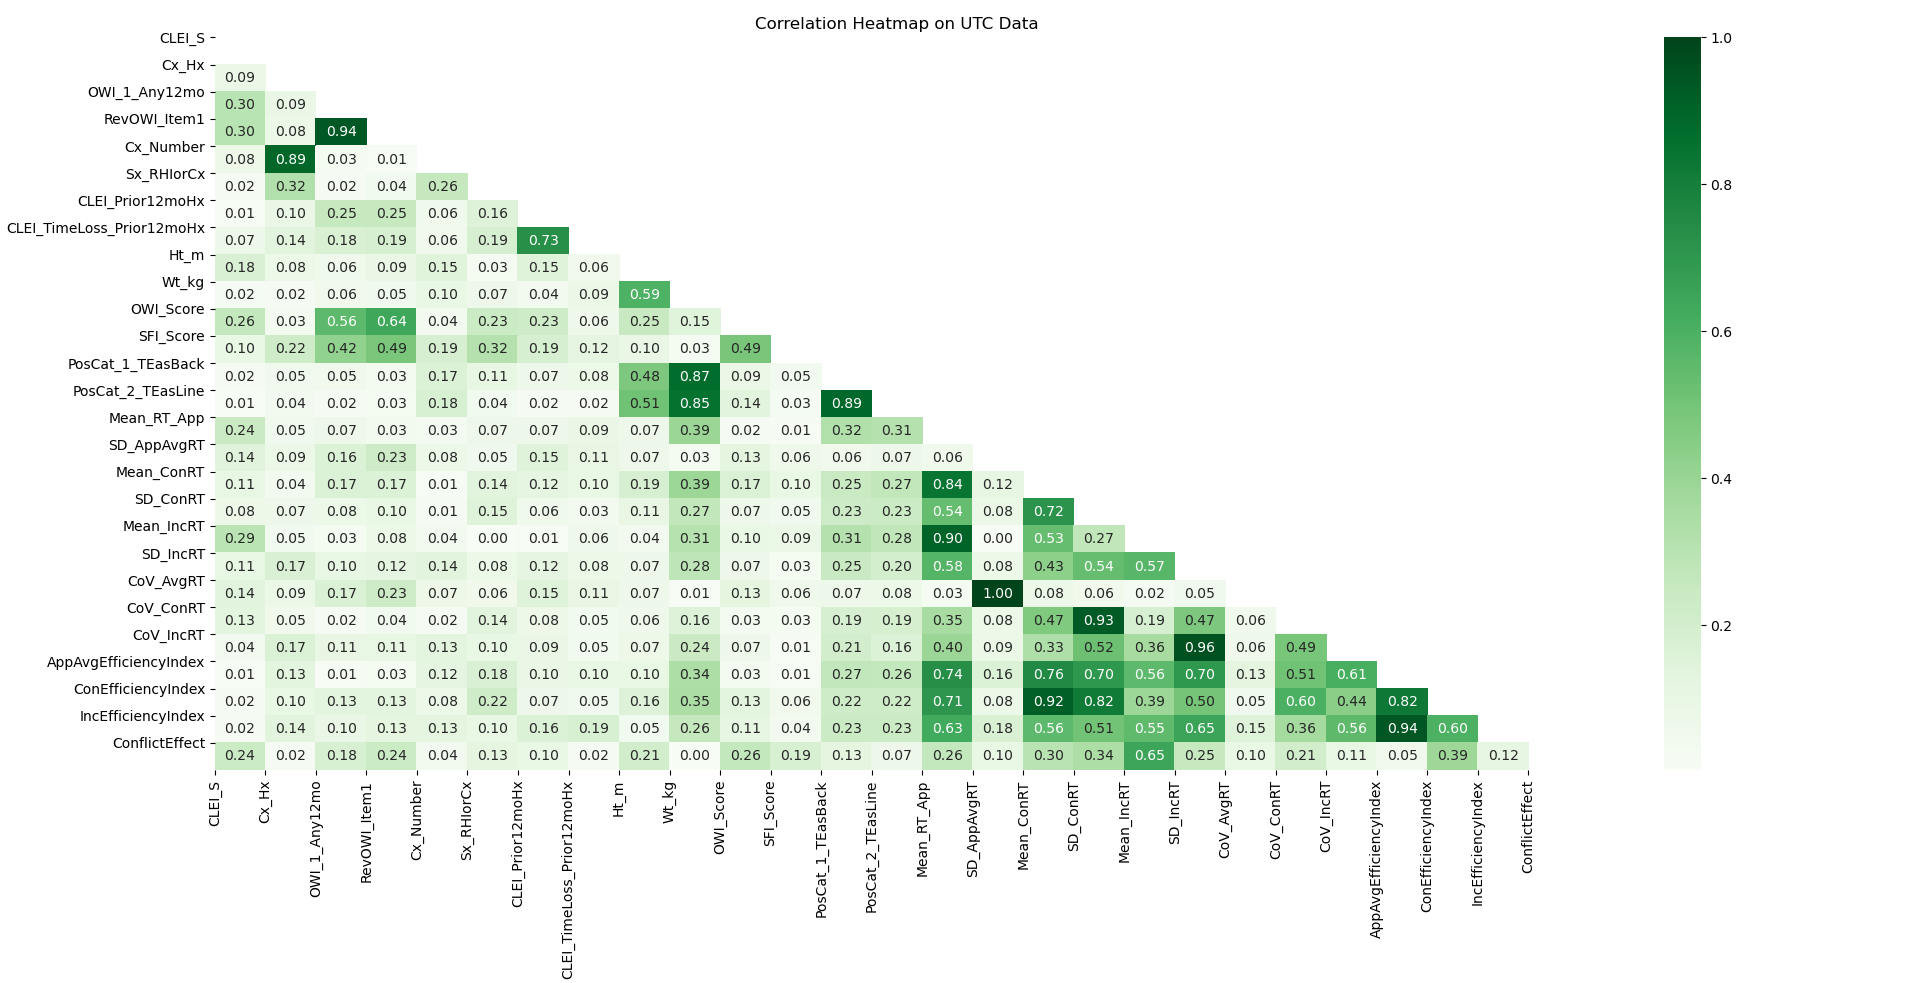
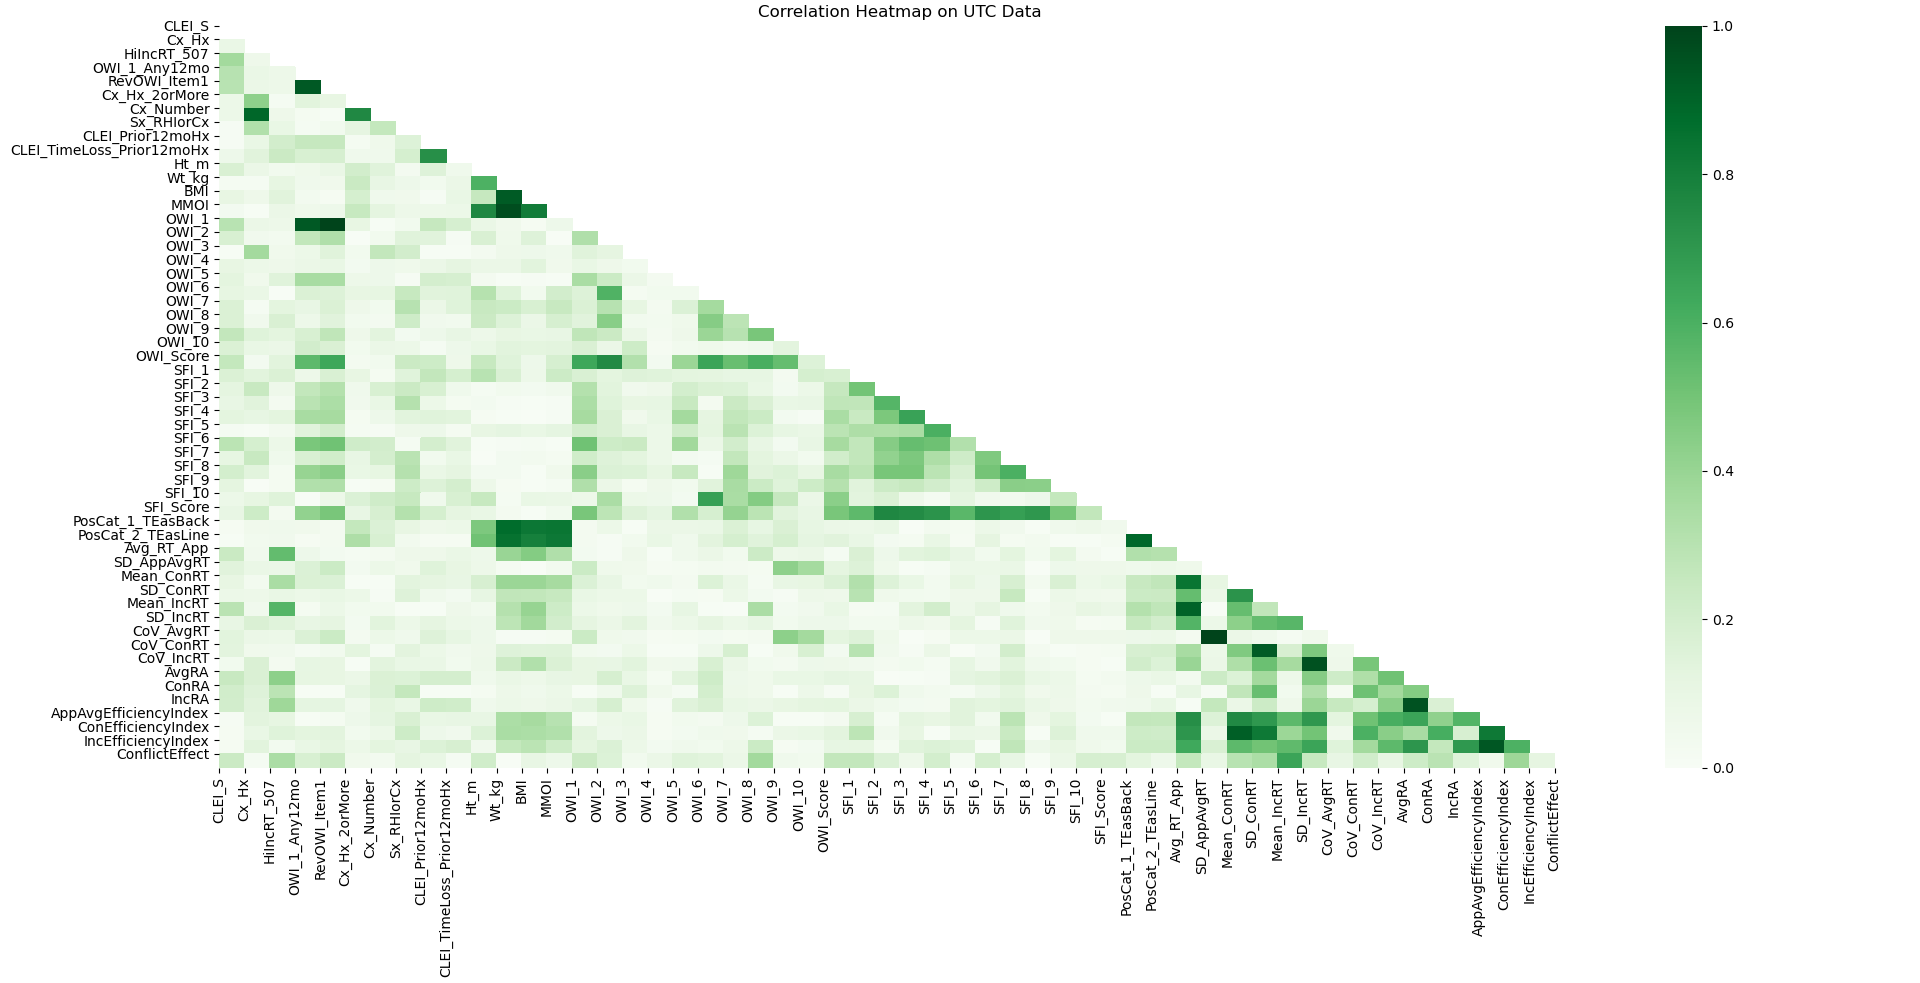
Correcting some errors I made for top 15 variables on UTC data. Also sorted out which variables to drop based on correlation heatmaps for both datasets

diff --git a/Code/Model.py b/Code/Model.py
@@ -47,6 +47,7 @@ def modelRun(X, Y, folder, modelname, testID):
     # Use for standard sized variable set
     model.add(Dense(X.shape[1] - 5, activation='sigmoid'))
     model.add(Dense(X.shape[1] - 10, activation='sigmoid'))
+
     # model.add(Dense(X.shape[1] - 10, activation='sigmoid'))
     # model.add(Dense(X.shape[1] - 15, activation='sigmoid'))
     # model.add(Dense(X.shape[1] - 20, activation='sigmoid'))
@@ -182,13 +183,12 @@ def modelRun(X, Y, folder, modelname, testID):
 # Depending on the size of your dataset that you're reading in, you choose either csv or feather
 # Feather files are typically any file > 800 mb
 # This is done because Pycharm doesn't like CSV files above a certain size (it freezes the system)
-dataset = pandas.read_csv(
-    "../Data/High School Football Data_cleaned.csv")
-dataset = dataset.reindex(columns=['CLEI', 'SFWI', 'OWI_Score', 'SFI_Score', 'LoSFI_90', 'IncConRTDiff', 'IncRT',
-                                   'AppCorrectPct', 'Wt_lbs', 'AppCRT', 'IncConCRTDiff', 'ConCRT', 'ConRT', 'Ht_in',
-                                   'AppRT', 'IncCRT'])
-# dataset = dataset.drop(['ID'], axis=1)
-# dataset = dataset.drop(['ID', 'CLEI_PreS_or_S','AnyInj_PreS_or_S','AnyInj_PreS',"CLEI_PreS",'AnyInj_S'], axis=1)
+dataset = pandas.read_csv("../Data/High School Football Data_cleaned.csv")
+# dataset = dataset.reindex(columns=[])
+# dataset = dataset.drop(['ID', 'SFWI', 'mTBIHx_Number', 'ConCRT', 'AppCRT', 'IncCRT', 'ConCRT'], axis=1)
+dataset = dataset.drop(['ID', 'CoV_AvgRT', 'CoV_ConRT', 'CoV_IncRT', 'Cx_Number', 'OWI_1_Any12mo',
+                        'SD_ConRT', 'SD_IncRT', 'SD_AppAvgRT', 'AppAvgEfficiencyIndex', 'RevOWI_Item1',
+                        'SFI_1','SFI_2','SFI_3','SFI_4','SFI_5','SFI_6','SFI_7',"SFI_8",'SFI_9','SFI_10'], axis=1)
 
 # Standardize the data before modelling
 dataset = standardize(dataset)
@@ -197,7 +197,7 @@ dataset = standardize(dataset)
 # Note, if the folder you specify doesn't exist, you'll have to create it
 # These are made for code automation later on
 folder = '../Modeling Results/'
-modelname = "model_highschoolTop15.h5"
+modelname = ".h5"
 
 ##Shuffling
 dataset = shuffle(dataset)
@@ -206,4 +206,4 @@ X = dataset.iloc[:, 1:(len(dataset.columns) + 1)].values  # Our independent vari
 Y = dataset.iloc[:, 0].values  # Our dependent variable
 
 ##Steps 2-5 are inside the fitting loops method
-modelRun(X, Y, folder, modelname, "Highschool Data Runs")
+modelRun(X, Y, folder, modelname, "")

diff --git a/Code/variableImportanceTesting.py b/Code/variableImportanceTesting.py
@@ -108,7 +108,7 @@ def correlationHeatmap(data, dataSource):
     # Generate color map
     # colormap = sns.diverging_palette(220, 10, as_cmap=True)
     # Generate the heatmap, allowing annotations and place floats in the map
-    sns.heatmap(corr, cmap='Greens', annot=True, fmt='.2f', mask=dropSelf)
+    sns.heatmap(corr, cmap='Greens', annot=False, fmt='.2f', mask=dropSelf)
     # xticks
     plt.xticks(range(len(corr.columns)), corr.columns)
     # yticks
@@ -117,9 +117,10 @@ def correlationHeatmap(data, dataSource):
     plt.show()
 
 
-data = pandas.read_csv("../Data/High School Football Data_cleaned.csv")
-dataSource = "Highschool"
-# data = data.drop(['ID', 'CLEI_PreS_or_S', 'AnyInj_PreS_or_S', 'AnyInj_PreS', 'CLEI_PreS', 'AnyInj_S'], axis=1)
+data = pandas.read_csv("../Data/UTC Football Data_cleaned.csv")
+dataSource = "UTC"
+# data = data.drop(['ID', 'CoV_AvgRT', 'CoV_ConRT', 'CoV_IncRT', 'Cx_Number', 'OWI_1_Any12mo', 'OWI_1_Any12mo',
+#                         'SD_ConRT', 'SD_IncRT', 'SD_AppAvgRT', 'AppAvgEfficiencyIndex'], axis=1)
 data = data.drop(['ID'], axis=1)
 # PCA_testing(data)
 # univariateSelection(data)
